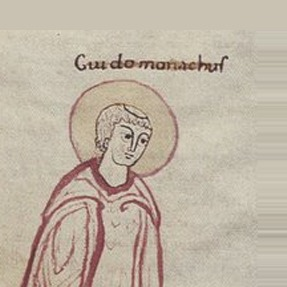
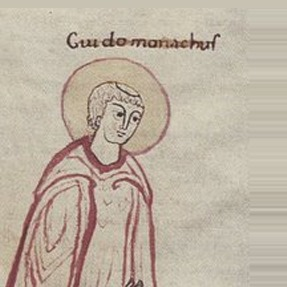
Il Workbook si chiama Workbook dappertutto
Andrea non lo trovava nel menu di navigazione. C'era: si chiamava "Quaderno - esercizi dell'unita' 1", mentre la pagina si intitola Workbook e lui lo chiama cosi'. Diciannove punti del sito dicevano Workbook, dieci dicevano Quaderno: la stessa cosa con due nomi non si cerca, si perde.

Ora e' Workbook ovunque: nella tendina, nella barra dei fascicoli, nella pagina della classe (dove risultava anche "bozza" e non lo e' piu').

E il ritratto di Guido: abbassato di 8 pixel invece di 30, dopo aver misurato la scritta vera invece di stimarla a occhio, cosi' il nome sta dentro il tondo senza la fascia vuota in cima.

diff --git a/classe-1/uda-01/lezione-1.html b/classe-1/uda-01/lezione-1.html
@@ -19364,6 +19364,6 @@ try { if (window.__mod) module = window.__mod; if (window.__exp) exports = windo
 
 
 </div>
-<script id="tac-indice-corso" type="application/json">{"corso":"Teoria, Analisi e Composizione","classi":[{"n":1,"titolo":"Il ritmo e la lettura","via":"classe-1","unita":[{"n":1,"titolo":"Il battito della musica","via":"uda-01","quando":"settimane 1–2","lezioni":[{"n":1,"titolo":"Dove sta il battito","file":"lezione-1.html","stato":"pronta"},{"n":2,"titolo":"Forte e debole: il metro binario","file":"lezione-2.html","stato":"pronta"},{"n":3,"titolo":"Dividere il battito: semplice e composto","file":"lezione-3.html","stato":"in preparazione"},{"n":4,"titolo":"Le figure e le pause","file":"lezione-4.html","stato":"in preparazione"},{"n":5,"titolo":"Tre battiti: il metro ternario","file":"lezione-5.html","stato":"in preparazione"},{"n":6,"titolo":"Dettato ritmico e correzione ragionata","file":"lezione-6.html","stato":"in preparazione"}],"materiali":[{"titolo":"Quaderno · esercizi dell'unità 1","file":"../materiali/workbook-uda-01.html","stato":"pronta"},{"titolo":"Scheda di lavoro autonomo","file":"../materiali/scheda-lavoro-autonomo-1.html","stato":"pronta"}]},{"n":2,"titolo":"Il rigo e le note","quando":"settimane 3–4","stato":"da preparare","lezioni":[]},{"n":3,"titolo":"Alterazioni e suddivisione","quando":"settimane 5–6","stato":"da preparare","lezioni":[]},{"n":4,"titolo":"La scala maggiore","quando":"settimane 7–9","stato":"da preparare","lezioni":[]},{"n":5,"titolo":"Le tonalità","quando":"settimane 10–11","stato":"da preparare","lezioni":[]},{"n":6,"titolo":"Le scale minori","quando":"settimane 12–14","stato":"da preparare","lezioni":[]},{"n":7,"titolo":"Gli intervalli","quando":"settimane 15–17","stato":"da preparare","lezioni":[]},{"n":8,"titolo":"Le triadi sui gradi","quando":"settimane 18–19","stato":"da preparare","lezioni":[]},{"n":9,"titolo":"La quadriade","quando":"settimane 20–22","stato":"da preparare","lezioni":[]},{"n":10,"titolo":"Le funzioni armoniche","quando":"settimane 23–26","stato":"da preparare","lezioni":[]},{"n":11,"titolo":"Le cadenze","quando":"settimane 27–30","stato":"da preparare","lezioni":[]}]}],"qui":{"classe":1,"unita":1,"lezione":1}}</script>
+<script id="tac-indice-corso" type="application/json">{"corso":"Teoria, Analisi e Composizione","classi":[{"n":1,"titolo":"Il ritmo e la lettura","via":"classe-1","unita":[{"n":1,"titolo":"Il battito della musica","via":"uda-01","quando":"settimane 1–2","lezioni":[{"n":1,"titolo":"Dove sta il battito","file":"lezione-1.html","stato":"pronta"},{"n":2,"titolo":"Forte e debole: il metro binario","file":"lezione-2.html","stato":"pronta"},{"n":3,"titolo":"Dividere il battito: semplice e composto","file":"lezione-3.html","stato":"in preparazione"},{"n":4,"titolo":"Le figure e le pause","file":"lezione-4.html","stato":"in preparazione"},{"n":5,"titolo":"Tre battiti: il metro ternario","file":"lezione-5.html","stato":"in preparazione"},{"n":6,"titolo":"Dettato ritmico e correzione ragionata","file":"lezione-6.html","stato":"in preparazione"}],"materiali":[{"titolo":"Workbook · unità 1","file":"../materiali/workbook-uda-01.html","stato":"pronta"},{"titolo":"Scheda di lavoro autonomo","file":"../materiali/scheda-lavoro-autonomo-1.html","stato":"pronta"}]},{"n":2,"titolo":"Il rigo e le note","quando":"settimane 3–4","stato":"da preparare","lezioni":[]},{"n":3,"titolo":"Alterazioni e suddivisione","quando":"settimane 5–6","stato":"da preparare","lezioni":[]},{"n":4,"titolo":"La scala maggiore","quando":"settimane 7–9","stato":"da preparare","lezioni":[]},{"n":5,"titolo":"Le tonalità","quando":"settimane 10–11","stato":"da preparare","lezioni":[]},{"n":6,"titolo":"Le scale minori","quando":"settimane 12–14","stato":"da preparare","lezioni":[]},{"n":7,"titolo":"Gli intervalli","quando":"settimane 15–17","stato":"da preparare","lezioni":[]},{"n":8,"titolo":"Le triadi sui gradi","quando":"settimane 18–19","stato":"da preparare","lezioni":[]},{"n":9,"titolo":"La quadriade","quando":"settimane 20–22","stato":"da preparare","lezioni":[]},{"n":10,"titolo":"Le funzioni armoniche","quando":"settimane 23–26","stato":"da preparare","lezioni":[]},{"n":11,"titolo":"Le cadenze","quando":"settimane 27–30","stato":"da preparare","lezioni":[]}]}],"qui":{"classe":1,"unita":1,"lezione":1}}</script>
 </body>
 </html>

diff --git a/classe-1/uda-01/lezione-2.html b/classe-1/uda-01/lezione-2.html
@@ -24855,6 +24855,6 @@ try { if (window.__mod) module = window.__mod; if (window.__exp) exports = windo
 
 
 </div>
-<script id="tac-indice-corso" type="application/json">{"corso":"Teoria, Analisi e Composizione","classi":[{"n":1,"titolo":"Il ritmo e la lettura","via":"classe-1","unita":[{"n":1,"titolo":"Il battito della musica","via":"uda-01","quando":"settimane 1–2","lezioni":[{"n":1,"titolo":"Dove sta il battito","file":"lezione-1.html","stato":"pronta"},{"n":2,"titolo":"Forte e debole: il metro binario","file":"lezione-2.html","stato":"pronta"},{"n":3,"titolo":"Dividere il battito: semplice e composto","file":"lezione-3.html","stato":"in preparazione"},{"n":4,"titolo":"Le figure e le pause","file":"lezione-4.html","stato":"in preparazione"},{"n":5,"titolo":"Tre battiti: il metro ternario","file":"lezione-5.html","stato":"in preparazione"},{"n":6,"titolo":"Dettato ritmico e correzione ragionata","file":"lezione-6.html","stato":"in preparazione"}],"materiali":[{"titolo":"Quaderno · esercizi dell'unità 1","file":"../materiali/workbook-uda-01.html","stato":"pronta"},{"titolo":"Scheda di lavoro autonomo","file":"../materiali/scheda-lavoro-autonomo-1.html","stato":"pronta"}]},{"n":2,"titolo":"Il rigo e le note","quando":"settimane 3–4","stato":"da preparare","lezioni":[]},{"n":3,"titolo":"Alterazioni e suddivisione","quando":"settimane 5–6","stato":"da preparare","lezioni":[]},{"n":4,"titolo":"La scala maggiore","quando":"settimane 7–9","stato":"da preparare","lezioni":[]},{"n":5,"titolo":"Le tonalità","quando":"settimane 10–11","stato":"da preparare","lezioni":[]},{"n":6,"titolo":"Le scale minori","quando":"settimane 12–14","stato":"da preparare","lezioni":[]},{"n":7,"titolo":"Gli intervalli","quando":"settimane 15–17","stato":"da preparare","lezioni":[]},{"n":8,"titolo":"Le triadi sui gradi","quando":"settimane 18–19","stato":"da preparare","lezioni":[]},{"n":9,"titolo":"La quadriade","quando":"settimane 20–22","stato":"da preparare","lezioni":[]},{"n":10,"titolo":"Le funzioni armoniche","quando":"settimane 23–26","stato":"da preparare","lezioni":[]},{"n":11,"titolo":"Le cadenze","quando":"settimane 27–30","stato":"da preparare","lezioni":[]}]}],"qui":{"classe":1,"unita":1,"lezione":2}}</script>
+<script id="tac-indice-corso" type="application/json">{"corso":"Teoria, Analisi e Composizione","classi":[{"n":1,"titolo":"Il ritmo e la lettura","via":"classe-1","unita":[{"n":1,"titolo":"Il battito della musica","via":"uda-01","quando":"settimane 1–2","lezioni":[{"n":1,"titolo":"Dove sta il battito","file":"lezione-1.html","stato":"pronta"},{"n":2,"titolo":"Forte e debole: il metro binario","file":"lezione-2.html","stato":"pronta"},{"n":3,"titolo":"Dividere il battito: semplice e composto","file":"lezione-3.html","stato":"in preparazione"},{"n":4,"titolo":"Le figure e le pause","file":"lezione-4.html","stato":"in preparazione"},{"n":5,"titolo":"Tre battiti: il metro ternario","file":"lezione-5.html","stato":"in preparazione"},{"n":6,"titolo":"Dettato ritmico e correzione ragionata","file":"lezione-6.html","stato":"in preparazione"}],"materiali":[{"titolo":"Workbook · unità 1","file":"../materiali/workbook-uda-01.html","stato":"pronta"},{"titolo":"Scheda di lavoro autonomo","file":"../materiali/scheda-lavoro-autonomo-1.html","stato":"pronta"}]},{"n":2,"titolo":"Il rigo e le note","quando":"settimane 3–4","stato":"da preparare","lezioni":[]},{"n":3,"titolo":"Alterazioni e suddivisione","quando":"settimane 5–6","stato":"da preparare","lezioni":[]},{"n":4,"titolo":"La scala maggiore","quando":"settimane 7–9","stato":"da preparare","lezioni":[]},{"n":5,"titolo":"Le tonalità","quando":"settimane 10–11","stato":"da preparare","lezioni":[]},{"n":6,"titolo":"Le scale minori","quando":"settimane 12–14","stato":"da preparare","lezioni":[]},{"n":7,"titolo":"Gli intervalli","quando":"settimane 15–17","stato":"da preparare","lezioni":[]},{"n":8,"titolo":"Le triadi sui gradi","quando":"settimane 18–19","stato":"da preparare","lezioni":[]},{"n":9,"titolo":"La quadriade","quando":"settimane 20–22","stato":"da preparare","lezioni":[]},{"n":10,"titolo":"Le funzioni armoniche","quando":"settimane 23–26","stato":"da preparare","lezioni":[]},{"n":11,"titolo":"Le cadenze","quando":"settimane 27–30","stato":"da preparare","lezioni":[]}]}],"qui":{"classe":1,"unita":1,"lezione":2}}</script>
 </body>
 </html>

diff --git a/classe-1/materiali/scheda-lavoro-autonomo-1.html b/classe-1/materiali/scheda-lavoro-autonomo-1.html
@@ -50,7 +50,7 @@
     <span class="qui">Materiali</span>
     <span class="voci">
       <a class="attiva" href="scheda-lavoro-autonomo-1.html">Lavoro autonomo · tornata 1</a>
-      <a href="workbook-uda-01.html">Quaderno · esercizi dell’unità 1</a>
+      <a href="workbook-uda-01.html">Workbook · unità 1</a>
     </span>
   </div>
 </nav>
@@ -296,7 +296,7 @@
 
 <footer class="piede no-stampa">
   <div class="piede-interno">
-    <p><a href="../">&larr; Torna alla classe 1&ordf;</a>  &middot;  <a href="workbook-uda-01.html">Quaderno · esercizi dell’unità 1</a></p>
+    <p><a href="../">&larr; Torna alla classe 1&ordf;</a>  &middot;  <a href="workbook-uda-01.html">Workbook · unità 1</a></p>
     <p>Teoria, Analisi e Composizione &middot; Liceo Musicale &middot; prof. Andrea Gorini</p>
   </div>
 </footer>

diff --git a/classe-1/index.html b/classe-1/index.html
@@ -230,9 +230,9 @@
           <span class="stato">pronta</span>
         </a>
         <a class="ris" href="materiali/workbook-uda-01.html">
-          <span class="tipo esercizi">Quaderno</span>
-          <span class="titolo">Esercizi dell'unità 1</span>
-          <span class="stato">bozza</span>
+          <span class="tipo esercizi">Workbook</span>
+          <span class="titolo">Il foglio di lavoro dell'unità 1</span>
+          <span class="stato">pronta</span>
         </a>
       </div>
     </div>

diff --git a/classe-1/materiali/workbook-uda-01.html b/classe-1/materiali/workbook-uda-01.html
@@ -36,7 +36,7 @@
     <span class="qui">Materiali</span>
     <span class="voci">
       <a href="scheda-lavoro-autonomo-1.html">Lavoro autonomo · tornata 1</a>
-      <a class="attiva" href="workbook-uda-01.html">Quaderno · esercizi dell’unità 1</a>
+      <a class="attiva" href="workbook-uda-01.html">Workbook · unità 1</a>
     </span>
   </div>
 </nav>
